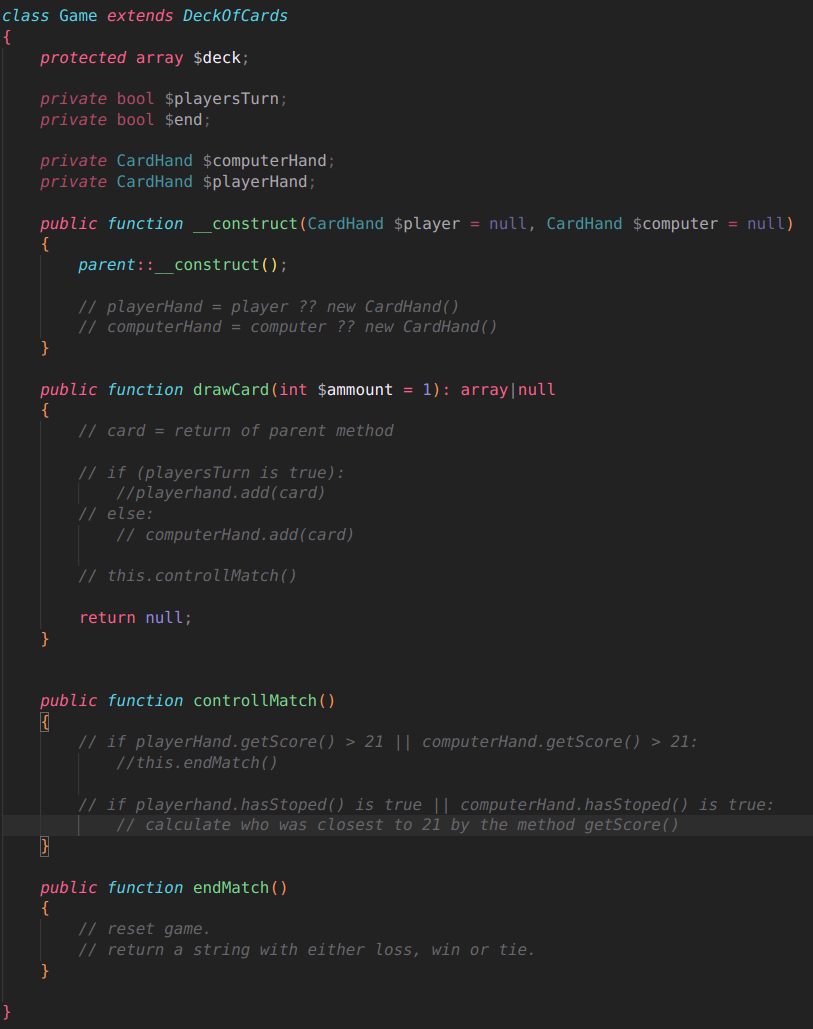
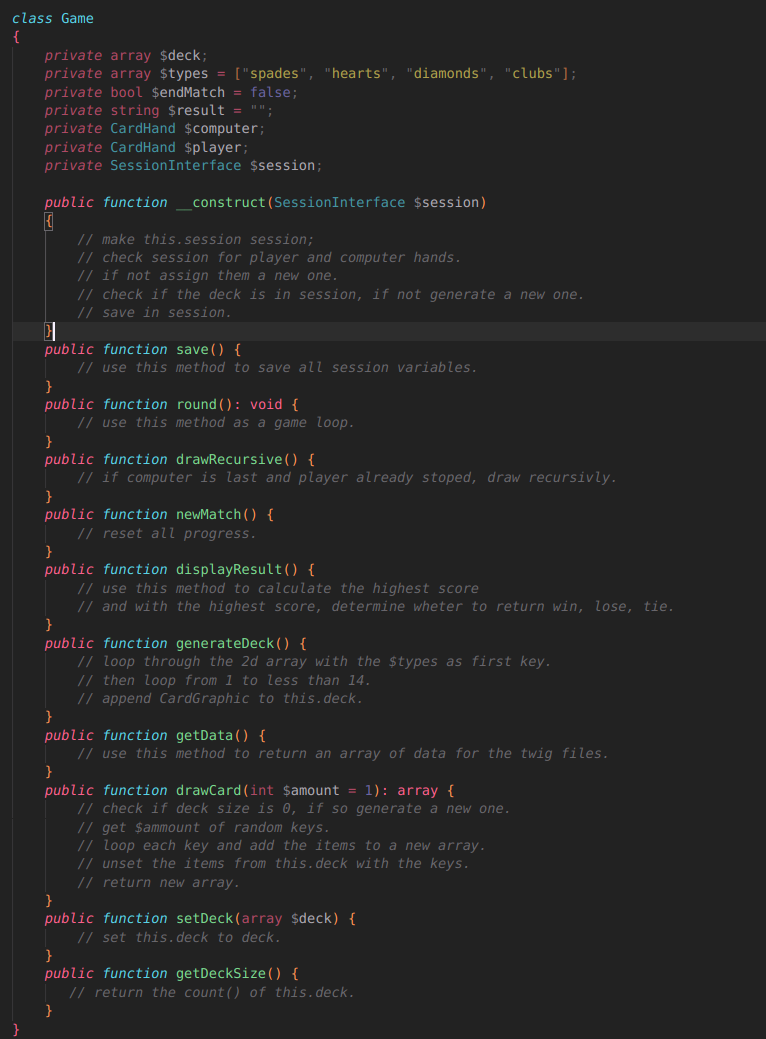
Blackjack ace fix & doc fix

diff --git a/src/Game/Game.php b/src/Game/Game.php
@@ -8,6 +8,7 @@ use Symfony\Component\HttpFoundation\Session\SessionInterface;
 
 class Game
 {
+    /** @var array<CardGraphic> */
     private array $deck;
     /** @var array<string> */
     private array $types = ["spades", "hearts", "diamonds", "clubs"];
@@ -24,37 +25,29 @@ class Game
     {
         $this->session = $session;
 
-        if ($this->session->has("game_deck")) 
-        {
-            $this->setDeck($this->session->get("game_deck"));
-        } 
-        else 
-        {
-            $this->generateDeck();
-        }
-        $this->player = new CardHand($this->session->get("p_hand")) ?? new CardHand();
-        $this->computer = new CardHand($this->session->get("c_hand")) ?? new CardHand();
-        
-        if ($this->session->has("p_stand")) 
-        {
+        $this->setDeck($this->session->get("game_deck"));
+
+        $this->player = new CardHand($this->session->get("p_hand"));
+        $this->computer = new CardHand($this->session->get("c_hand"));
+
+        if ($this->session->has("p_stand")) {
             $this->loadStandsFromSession();
         }
 
-        if ($this->session->has("result"))
-        {
+        if ($this->session->has("result")) {
             $this->result = $this->session->get("result");
         }
-        
+
         $this->saveToSession();
     }
 
-    public function loadStandsFromSession()
+    public function loadStandsFromSession(): void
     {
         $this->player->setStand($this->session->get("p_stand"));
         $this->computer->setStand($this->session->get("c_stand"));
     }
 
-    public function saveToSession()
+    public function saveToSession(): void
     {
         $this->session->set("p_hand", $this->player->getHand());
         $this->session->set("c_hand", $this->computer->getHand());
@@ -70,31 +63,31 @@ class Game
     {
         $this->loadStandsFromSession();
 
-        if ($this->player->getScore() > 21)
-        {
+        if ($this->player->getScore() > 21) {
             $this->player->setStand(true);
-        }
-
-        if ($this->computer->getScore() >= 17)
-        {
-            $this->computer->setStand(true);
-        }
-
-        if ($this->player->getStop()) 
-        {
-            $this->drawRecursive();
-
             $this->endOfMatch = true;
-            
             $this->result = $this->displayResult();
-            
             $this->saveToSession();
-            
             return;
         }
 
-        if ($this->computer->getStop())
-        {
+        if ($this->computer->getScore() >= 17) {
+            $this->computer->setStand(true);
+        }
+
+        if ($this->player->getStop()) {
+            $this->drawRecursive();
+
+            $this->endOfMatch = true;
+
+            $this->result = $this->displayResult();
+
+            $this->saveToSession();
+
+            return;
+        }
+
+        if ($this->computer->getStop()) {
             $this->player->add($this->drawCard(1));
             $this->saveToSession();
             return;
@@ -107,7 +100,7 @@ class Game
         return;
     }
 
-    public function drawRecursive()
+    public function drawRecursive(): void
     {
         if ($this->computer->getScore() >= 17) {
             $this->computer->setStand(true);
@@ -119,7 +112,7 @@ class Game
         $this->drawRecursive();
     }
 
-    public function newMatch()
+    public function newMatch(): void
     {
         $this->player = new CardHand();
         $this->computer = new CardHand();
@@ -129,28 +122,24 @@ class Game
         $this->saveToSession();
     }
 
-    public function displayResult()
+    public function displayResult(): string
     {
         $playerScore = $this->player->getScore();
         $computerScore = $this->computer->getScore();
 
-        if ($playerScore >= 22)
-        {
+        if ($playerScore >= 22) {
             return "Lose";
         }
 
-        if ($computerScore >= 22)
-        {
+        if ($computerScore >= 22) {
             return "Win";
         }
 
-        if ($playerScore > $computerScore)
-        {
+        if ($playerScore > $computerScore) {
             return "Win";
         }
 
-        if ($computerScore > $playerScore)
-        {
+        if ($computerScore > $playerScore) {
             return "Lose";
         }
 
@@ -158,7 +147,7 @@ class Game
 
     }
 
-    public function stand()
+    public function stand(): void
     {
         $this->player->setStand(true);
         $this->saveToSession();
@@ -166,7 +155,7 @@ class Game
         $this->round();
     }
 
-    public function generateDeck() 
+    public function generateDeck(): void
     {
         foreach($this->types as $type) {
 
@@ -176,7 +165,9 @@ class Game
         }
     }
 
-    public function getData() {
+    /** @return array<string, array<CardGraphic> |bool|int|string> */
+    public function getData(): array
+    {
         $data = [
             "p_hand" => $this->player->getHand(),
             "p_score" => $this->player->getScore(),
@@ -214,12 +205,19 @@ class Game
         return $cards;
     }
 
-    public function setDeck(array $deck)
+    /** @param array<CardGraphic> $deck */
+    public function setDeck(array $deck = null): void
     {
+        if (is_null($deck)) {
+            $this->generateDeck();
+            return;
+        }
+
         $this->deck = $deck;
+        return;
     }
 
-    public function getDeckSize()
+    public function getDeckSize(): int
     {
         return count($this->deck);
     }

diff --git a/src/Card/CardHand.php b/src/Card/CardHand.php
@@ -11,11 +11,13 @@ class CardHand
 
     private bool $stop = false;
 
+    /** @param array<CardGraphic>|null $existingHand */
     public function __construct($existingHand = null)
-    {  
+    {
         $this->hand = ($existingHand !== null) ? $existingHand : [];
     }
 
+    /** @param array<CardGraphic> $cards */
     public function add(array $cards): void
     {
         foreach($cards as $card) {
@@ -29,7 +31,13 @@ class CardHand
         return $this->hand;
     }
 
-    public function hasStoped():bool
+    /** @param array<CardGraphic> $hand */
+    public function setHand(array $hand): void
+    {
+        $this->hand = $hand;
+    }
+
+    public function hasStoped(): bool
     {
         return $this->stop;
     }
@@ -42,32 +50,46 @@ class CardHand
     public function calculateScore(): int
     {
         $score = 0;
+        $aceCount = 0;
+        $count = sizeof($this->hand);
 
-        for ($i = 0; $i < count($this->hand); $i++)
-        {
+        for ($i = 0; $i < $count; $i++) {
             $value = $this->hand[$i]->getValue();
 
-            if ($value > 10) {
-                $score += 10;
+            if ($value === 1) {
+                $aceCount++;
                 continue;
             }
 
-            if ($value === 1) {
-                $score += 11;
+            if($value > 10) {
+                $score += 10;
                 continue;
             }
 
             $score += $value;
         }
 
+        for ($i = 0; $i < $aceCount; $i++) {
+            if($score + 11 > 21) {
+                $score += 1;
+                continue;
+            }
+
+            /** @phpstan-ignore-next-line */
+            if($score + 11 < 22) {
+                $score += 11;
+            }
+        }
         return $score;
     }
 
-    public function setStand(bool $stop) {
+    /** @param bool $stop */
+    public function setStand(bool $stop): void
+    {
         $this->stop = $stop;
     }
 
-    public function getStop()
+    public function getStop(): bool
     {
         return $this->stop;
     }

diff --git a/src/Controller/GameController.php b/src/Controller/GameController.php
@@ -16,32 +16,30 @@ use Symfony\Component\Routing\Annotation\Route;
 
 class GameController extends AbstractController
 {
-
     #[Route("/game", name: "game")]
-    public function game() {
+    public function game(): Response
+    {
         return $this->render("game/home.html.twig");
     }
 
     #[Route("/game/doc", name: "doc")]
-    public function doc() {
+    public function doc(): Response
+    {
         return $this->render("game/doc.html.twig");
     }
 
     #[Route("/game/start", name: "start")]
     public function startGame(
         SessionInterface $session
-    ) {
-
+    ): Response {
         $game = new Game($session);
-        $data = $game->getData();
-
-        return $this->render("game/game.html.twig", $data);
+        return $this->render("game/game.html.twig", $game->getData());
     }
 
     #[Route("/game/start/draw", name: "drawCard")]
     public function drawCard(
         SessionInterface $session
-    ) {
+    ): Response {
         $game = new Game($session);
         $game->round();
         $data = $game->getData();
@@ -52,8 +50,7 @@ class GameController extends AbstractController
     #[Route("/game/start/stop", name: "stop")]
     public function stop(
         SessionInterface $session
-    )
-    {
+    ): Response {
         $game = new Game($session);
         $game->stand();
         $data = $game->getData();
@@ -64,8 +61,7 @@ class GameController extends AbstractController
     #[Route("/game/start/new_game", name: "newGame")]
     public function newGame(
         SessionInterface $session
-    )
-    {
+    ): Response {
         $game = new Game($session);
         $game->newMatch();
         $data = $game->getData();
